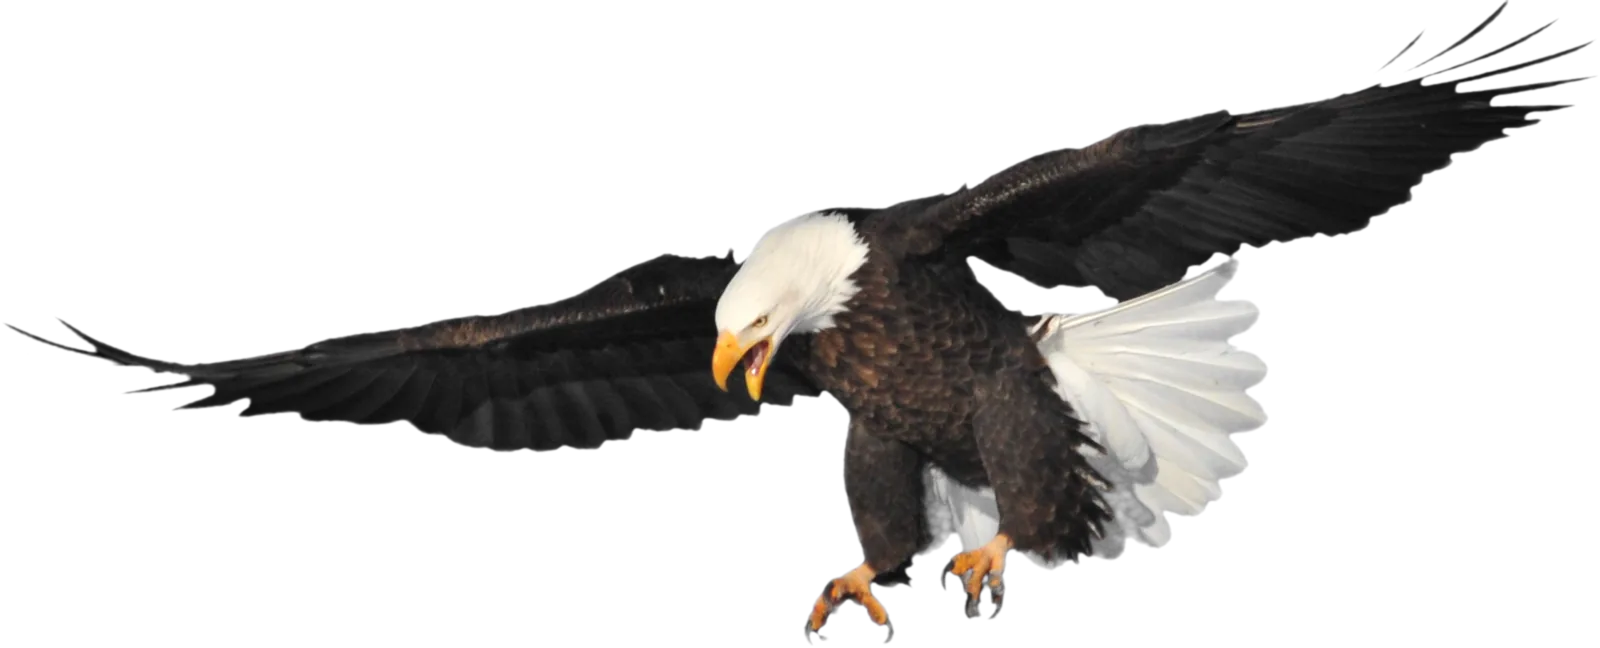
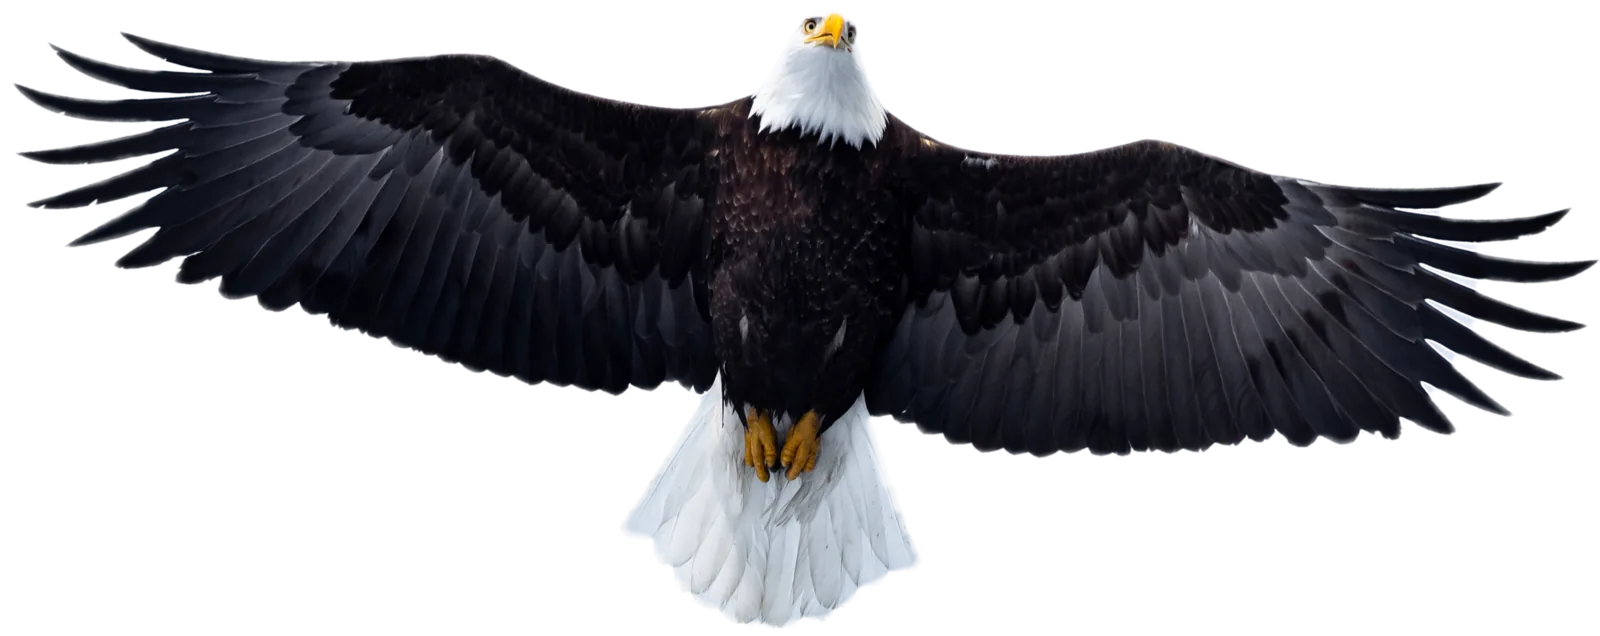
Header eagle faces the viewer, wings spread level, and is larger
New public-domain photo (Lisa Hupp, USFWS) of a bald eagle flying straight
at the camera, cut out with a sky key limited to the outline and turned 14°
so the wings are level. The band grows to 160-320px and the eagle fills 96%
of it. DECISIONS #16.

Claude-Session: https://claude.ai/code/session_01FuVdhKzVQmVFWPVX2g785J

diff --git a/src/styles/global.css b/src/styles/global.css
@@ -59,11 +59,11 @@ footer a { display: inline-block; padding: 0.6rem 0; }
 }
 
 /* Header: a waving flag fills the band (cover; the canton stays at the left) and the
-   cut-out eagle sits on it, whole, at nearly the band's height (contain, never cut).
-   140px on phones up to 280px. Both images come from scripts/header/make.sh. */
-.banner-wrap { position: relative; overflow: hidden; display: flex; align-items: center; justify-content: center; height: clamp(140px, 22vw, 280px); background: var(--blue); border-bottom: 4px solid var(--blue); }
+   cut-out eagle sits on it, whole, at 96% of the band's height (contain, never cut).
+   160px on phones up to 320px. Both images come from scripts/header/make.sh. */
+.banner-wrap { position: relative; overflow: hidden; display: flex; align-items: center; justify-content: center; height: clamp(160px, 25vw, 320px); background: var(--blue); border-bottom: 4px solid var(--blue); }
 .banner-flag { position: absolute; inset: 0; width: 100%; height: 100%; object-fit: cover; object-position: left 35%; }
-.banner { position: relative; display: block; height: 92%; width: auto; max-width: 96%; object-fit: contain; filter: drop-shadow(0 6px 10px rgb(0 0 0 / 0.45)); }
+.banner { position: relative; display: block; height: 96%; width: auto; max-width: 96%; object-fit: contain; filter: drop-shadow(0 6px 10px rgb(0 0 0 / 0.45)); }
 
 /* Cards with a photo: photo on top on phones, at the left from 601px. The card's
    own padding is cancelled so the photo runs edge to edge. */

diff --git a/tests/site.spec.ts b/tests/site.spec.ts
@@ -84,7 +84,7 @@ test('photos load, have alt text and fit their card', async ({ page }) => {
 		expect(box.x + box.width).toBeLessThanOrEqual(card.x + card.width + 1);
 	}
 	const banner = page.locator('img.banner');
-	await expect(banner).toHaveAttribute('alt', 'A bald eagle with its wings spread, in front of the American flag');
+	await expect(banner).toHaveAttribute('alt', 'A bald eagle flying straight at the viewer, wings spread wide, in front of the American flag');
 	await expect.poll(() => banner.evaluate((i: HTMLImageElement) => i.complete && i.naturalWidth > 0)).toBe(true);
 });
 
@@ -113,9 +113,9 @@ test('the eagle-and-flag banner spans the top of the page', async ({ page }) => 
 	const width = page.viewportSize()!.width;
 	expect(banner.y).toBe(0);
 	expect(banner.width).toBeGreaterThanOrEqual(width - 1);
-	// Short band: 140px on phones, at most 280px (+4px border) on desktop.
-	expect(banner.height).toBeGreaterThanOrEqual(140);
-	expect(banner.height).toBeLessThanOrEqual(285);
+	// Short band: 160px on phones, at most 320px (+4px border) on desktop.
+	expect(banner.height).toBeGreaterThanOrEqual(160);
+	expect(banner.height).toBeLessThanOrEqual(325);
 	// The flag fills the band; the eagle is whole (contain) and inside it.
 	const flag = (await page.locator('img.banner-flag').boundingBox())!;
 	expect(flag.width).toBeGreaterThanOrEqual(width - 1);

diff --git a/docs/DECISIONS.md b/docs/DECISIONS.md
@@ -273,3 +273,29 @@ The bunting (`public/bunting.svg`) and the old banner photo are deleted. Rejecte
   `src/assets/header-eagle.webp (56 KB)` at their expected sizes.
 - `scripts/header/make.sh` rebuilds both files in about 11 s. `shellcheck` is clean.
 - Screenshots at 375, 1280 and 1920px show the whole eagle, wingtips to talons, on the flag.
+
+## 16. The header eagle faces the viewer and is larger (supersedes #15's photo and sizing)
+**Date:** 2026-10-21
+**Context:** Pieter: the eagle should look you in the eye, be somewhat larger, and have its wings
+spread. The #15 photo shows it in three-quarter view, head turned away.
+**Decision:** "Bald eagle in flight" (51080613667), Lisa Hupp/USFWS, Public Domain Mark. It is
+photographed from below, flying at the camera, both eyes on the lens, wings fully spread. The
+search covered 752 files in five Commons eagle-in-flight categories; 86 were public domain or CC0
+at 1500px or wider. `scripts/header/make.sh` cuts it out and keys the sky. It keys only along the
+outline, plus pixels both bright and strongly blue (blue minus red > 0.25), because skylight
+turns the underwing and the white neck blue. It turns the bird 14° so the wings are level. The
+band grows to `clamp(160px, 25vw, 320px)` and the eagle to 96% of it. #15's flag, layering and
+cover/contain split stand. Rejected:
+- "Ready to Take Flight" (4819447648), a perched eagle staring into the camera with wings raised:
+  the strongest stare, but it is credited to a contractor (Rich Keen, DPRA Inc.) and also tagged
+  CC BY 2.0, so its public-domain status is doubtful (#6).
+- "Bald Eagle" (8601174760), head-on with wings in a V: 1979px with a small bird, head turned
+  slightly away.
+**Verified:**
+- `./test.sh` → `137 passed, 0 failed, 1 warnings, 4 skipped`, including `the eagle-and-flag
+  banner spans the top of the page` at 1280, 375 and 320px (band 160–325px, eagle whole and
+  ≥ 85% of its height), and `src/assets/header-eagle.webp (82 KB)` at 1600×636.
+- Commons wikitext for the new photo: `{{PD-USGov-FWS}}`, FlickreviewR `Public Domain Mark`,
+  credit `Lisa Hupp/USFWS`.
+- Screenshots at 375, 1280 and 1920px show the whole eagle, level, facing the viewer, eyes and
+  beak sharp.

diff --git a/CREDITS.md b/CREDITS.md
@@ -10,7 +10,7 @@ The source page has the full provenance.
 | `src/assets/items/capitol-flag.webp` | Public domain | USCapitol | [Commons](https://commons.wikimedia.org/wiki/File:Flickr_-_USCapitol_-_Flag_Flying_on_the_U.S._Capitol.jpg) |
 | `src/assets/items/constitution.webp` | Public domain | Constitutional Convention | [Commons](https://commons.wikimedia.org/wiki/File:United_States_Constitution.jpg) |
 | `src/assets/items/declaration-of-independence.webp` | No restrictions | The U.S. National Archives | [Commons](https://commons.wikimedia.org/wiki/File:Engrossed_Declaration_of_Independence_%283678682267%29.jpg) |
-| `src/assets/header-eagle.webp` | Public domain | Tom Koerner, U.S. Fish and Wildlife Service | [Commons](https://commons.wikimedia.org/wiki/File:Bald_Eagle_on_Seedskadee_NWR_%2823695399363%29.jpg) |
+| `src/assets/header-eagle.webp` | Public domain | Lisa Hupp, U.S. Fish and Wildlife Service | [Commons](https://commons.wikimedia.org/wiki/File:Bald_eagle_in_flight_%2851080613667%29.jpg) |
 | `src/assets/items/federalist-papers.webp` | Public domain | Publius (pseudonym) [Alexander Hamilton, John Jay, James Madison]. | [Commons](https://commons.wikimedia.org/wiki/File:The_Federalist_%281st_ed,_1788,_vol_I,_title_page%29.jpg) |
 | `src/assets/items/founding-era-timeline.webp` | Public domain | John Trumbull | [Commons](https://commons.wikimedia.org/wiki/File:Declaration_of_Independence_%281819%29,_by_John_Trumbull.jpg) |
 | `src/assets/items/historical-newspaper.webp` | Public domain | Pennsylvania Evening Post | [Commons](https://commons.wikimedia.org/wiki/File:Declaration_First_Newspaper_Printing.jpg) |

diff --git a/TODO.md b/TODO.md
@@ -8,3 +8,4 @@
 - [ ] Open the three Cloudflare-blocked links in a browser and confirm each page is right (usmint.gov American Eagle coins, usmint.gov proof sets, america250.org About; proudpatriots.com too if it starts answering 429), 2026-10-20 — docs/DECISIONS.md #8
 - [ ] Answer the open questions in docs/shoppable.md (affiliate links, concierge fee, shops per item, claim link, delivery promise) and docs/package-builder.md (presets, price ceiling, Capitol flag, box), then pick the first step, 2026-10-20 — docs/shoppable.md § Suggested path
 - [ ] Move the untracked `AUDIT_2026-09-01.md` out of the repo to `~/dev/audit-reports/` (audit output never goes in a git repo, so it was left out of the 2026-10-21 push), 2026-10-21 — ~/dev/CLAUDE.md § Hard rules
+- [x] See the `site` and post-deploy `live` runs for `25d1285` (new eagle-and-flag header) go green, 2026-10-21 — docs/DECISIONS.md #15 — done 2026-10-21: push, security and deployment_status runs green; live build-commit is 25d1285

diff --git a/CHANGELOG.md b/CHANGELOG.md
@@ -33,6 +33,9 @@ The site is unversioned (every push to `main` deploys).
   checks (DECISIONS #4).
 
 ### Changed
+- The header eagle now flies straight at the viewer, wings spread level and wide, looking you in
+  the eye, and is larger: the band is 160px on phones and up to 320px on desktop, and the eagle
+  fills 96% of it (DECISIONS #16).
 - The header is now a bald eagle with its wings spread, cut out and set in front of a waving US
   flag, 140px tall on phones and up to 280px on desktop. It replaces the eagle-in-flight photo
   on its sky and the row of bunting fans, which is removed from every page, the 404 included.
